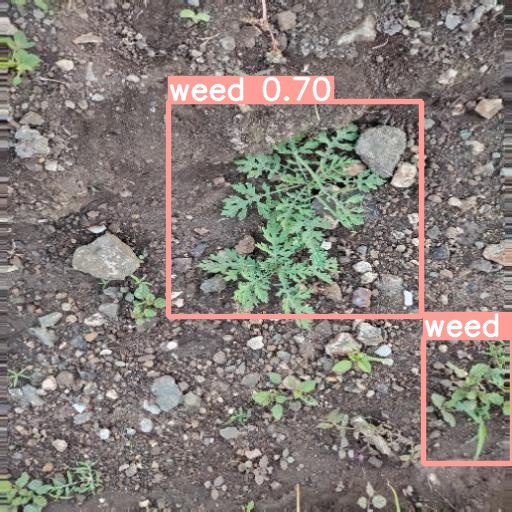
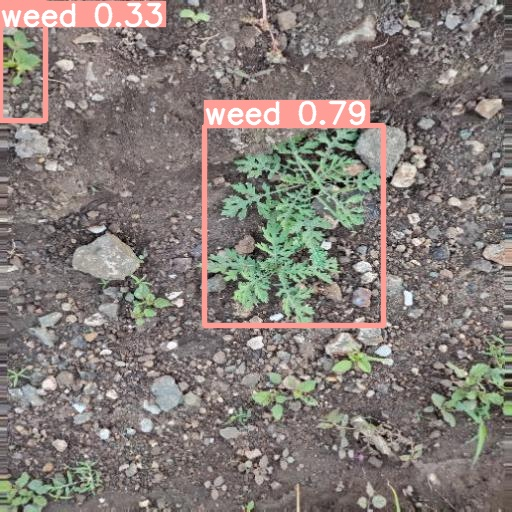
ultralytics

Changed region(s): [[0.3125, 0.125, 1.0, 0.9375], [0.0, 0.0, 0.3438, 0.25]]

diff --git a/pages/cropAnalysis.py b/pages/cropAnalysis.py
@@ -2,6 +2,8 @@ import streamlit as st
 
 import torch
 from yolov5 import detect
+from ultralytics import YOLO
+
 import os
 import shutil
 

diff --git a/README.md b/README.md
@@ -3,6 +3,9 @@
 
 ![Screen Capture](screenCap.gif)
 
+A comparative analysis of Yolov5 and Yolov8 over Weed and Crop detection.
+
+This project also compares the time of training YOLO models in a raad2 Supercomputer and the itel one api data analytics cloud platform.
 
 Link to app
 https://ashhadulislam-medium-weedvcrop-main-main-ppo37r.streamlit.app/
